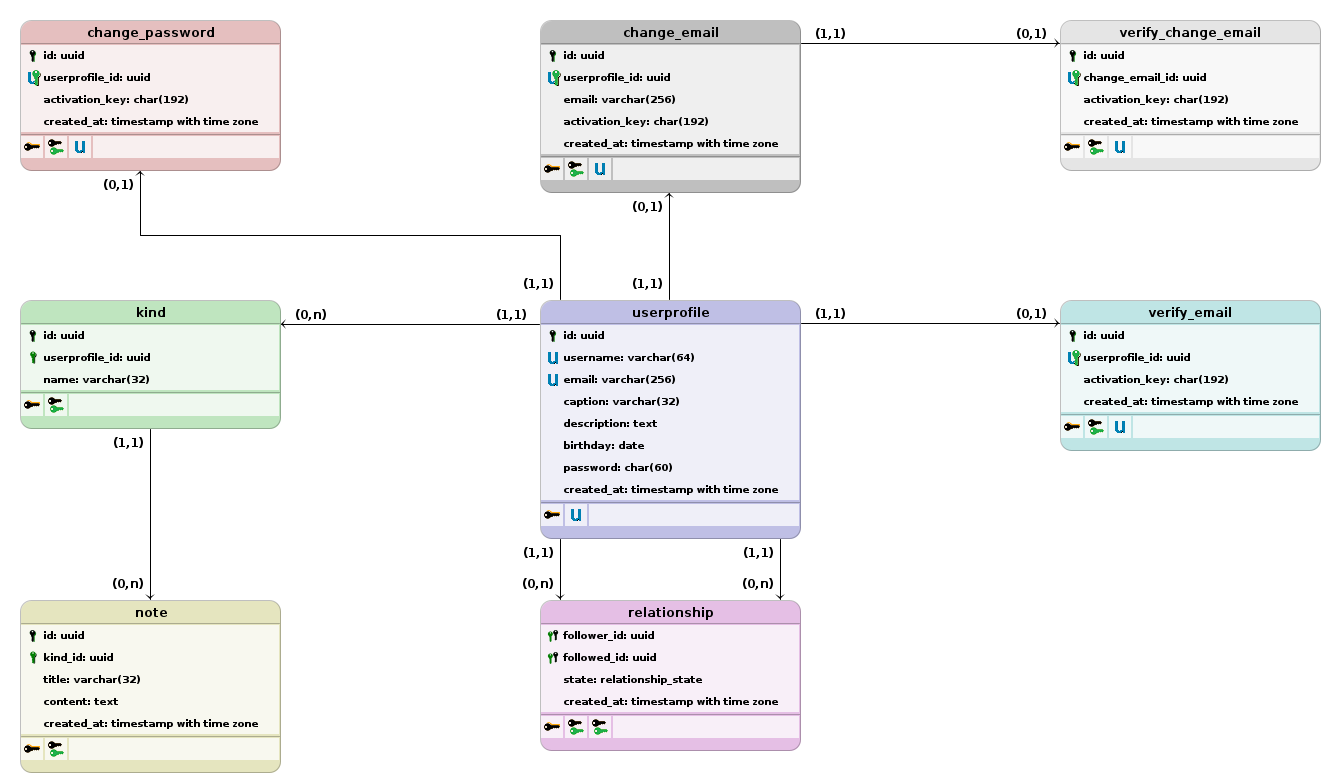
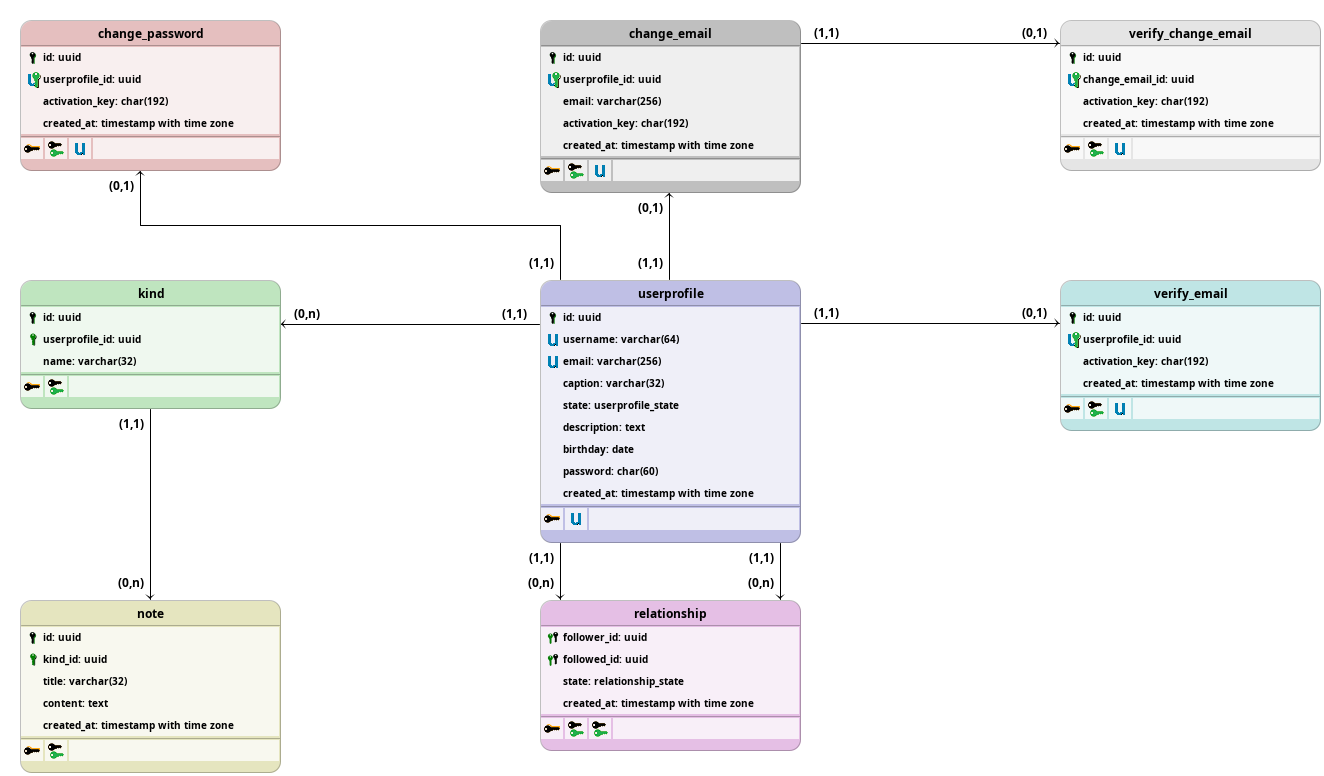
v1.7 - estado de usuário

diff --git a/backend/src/main/java/github/com/evertonbrunosds/note/model/entity/UserprofileEntity.java b/backend/src/main/java/github/com/evertonbrunosds/note/model/entity/UserprofileEntity.java
@@ -10,6 +10,10 @@ import java.util.List;
 import java.util.Optional;
 import java.util.UUID;
 
+import org.hibernate.annotations.JdbcTypeCode;
+import org.hibernate.type.SqlTypes;
+
+import github.com.evertonbrunosds.note.model.UserprofileState;
 import github.com.evertonbrunosds.note.setting.Constant;
 import jakarta.persistence.CascadeType;
 import jakarta.persistence.Column;
@@ -48,6 +52,11 @@ public class UserprofileEntity implements Serializable {
     private String caption;
 
     @Setter
+    @JdbcTypeCode(SqlTypes.NAMED_ENUM)
+    @Column(name = "state", columnDefinition = "userprofile_state", nullable = false)
+    private UserprofileState state;
+
+    @Setter
     @Column(name = "description", columnDefinition = "text")
     private String description;
 
@@ -83,7 +92,12 @@ public class UserprofileEntity implements Serializable {
     @OneToMany(mappedBy = "followed", fetch = FetchType.LAZY, cascade = CascadeType.REMOVE)
     private List<RelationshipEntity> relationshipsFollowed = new LinkedList<>();
 
+    @Deprecated
     public UserprofileEntity() {
+    }
+
+    public UserprofileEntity(final UserprofileState state) {
+        this.state = state;
         createdAt = currentLocalDateTime();
     }
 

diff --git a/backend/src/main/java/github/com/evertonbrunosds/note/model/UserprofileState.java b/backend/src/main/java/github/com/evertonbrunosds/note/model/UserprofileState.java
@@ -1,0 +1,7 @@
+package github.com.evertonbrunosds.note.model;
+
+public enum UserprofileState {
+
+    PUBLIC, PRIVATE, PROTECTED, HIDDEN
+
+}
